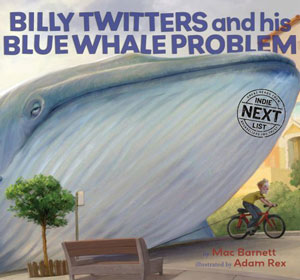
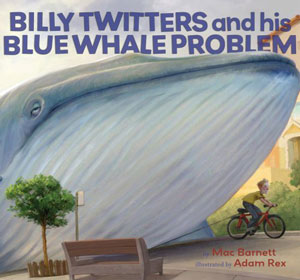
Add indie next watermark in correct positions

Changed region(s): [[0.78, 0.3143, 0.96, 0.5143]]

diff --git a/v2/books_inner.html b/v2/books_inner.html
@@ -44,6 +44,7 @@
     <div class='book'>
       <div class='image'>
         <a href='billy_twitters.html' target='_top'><img src="imagesv2/billy_twitters.jpg" width="182" height="170" alt="Billy Twitters"></a>
+        <img src="imagesv2/indieNextList.png" width="50" height="48" alt="IndieNextList" style='position:relative; top:-30px; left:-120px' />
       </div>
       <div class='content'>
         <div class='title'>
@@ -67,6 +68,7 @@
     <div class='book'>
       <div class='image'>
         <a href='guess_again.html' target="_top"><img src="imagesv2/guess_again.jpg" width="182" height="204" alt="Guess Again" /></a>
+        <img src="imagesv2/indieNextList.png" width="50" height="48" alt="IndieNextList" style='position:relative; top:-30px; left:-120px' />
       </div>
       <div class='content'>
         <div class='title'>
@@ -76,6 +78,8 @@
           <p>Illustrated by Adam Rex</p>
 
           <p>Here is a book that will keep you guessing again and again and&#8230;</p>
+
+          <p>Number Two on <a href='http://www.time.com/time/specials/packages/article/0,28804,1945379_1943845_1943849,00.html'>TIME Magazine's Ten Best Children's Books of 2009</a></p>
 
           <p>A Junior Library Guild Selection</p>
 

diff --git a/v2/guess_again.html b/v2/guess_again.html
@@ -20,7 +20,10 @@
     <img src="imagesv2/toolbar.jpg" width="792" height="36" alt="Toolbar" usemap="#Map">
   </div>
   <div id='content'>
-    <img src="imagesv2/guess_again_large.jpg" width="300" height="336" alt="Guess Again Large" class='sideimg' />
+    <div class='sideimg'>
+      <img src="imagesv2/guess_again_large.jpg" width="300" height="336" alt="Guess Again Large" />
+      <img src="imagesv2/indieNextList.png" width="75" height="72" alt="IndieNextList" style='position:relative; top:-30px; left:-100px' />
+    </div>
     
     <div class='inner_content'>
       <div class='title'>
@@ -32,6 +35,8 @@
         <p>Illustrated by Adam Rex</p>
 
         <p>Here is a book that will keep you guessing again and again and&#8230;</p>
+
+        <p>Number Two on <a href='http://www.time.com/time/specials/packages/article/0,28804,1945379_1943845_1943849,00.html'>TIME Magazine's Ten Best Children's Books of 2009</a></p>
 
         <p>A Junior Library Guild Selection</p>
 

diff --git a/v2/billy_twitters.html b/v2/billy_twitters.html
@@ -20,7 +20,10 @@
     <img src="imagesv2/toolbar.jpg" width="792" height="36" alt="Toolbar" usemap="#Map">
   </div>
   <div id='content'>
-    <img src="imagesv2/billy_twitters_large.jpg" width="300" height="280" alt="Billy Twitters Large" class='sideimg'>
+    <div class='sideimg'>
+      <img src="imagesv2/billy_twitters_large.jpg" width="300" height="280" alt="Billy Twitters Large" />
+      <img src="imagesv2/indieNextList.png" width="75" height="72" alt="IndieNextList" style='position:relative; top:-30px; left:-100px' />
+    </div>
     
     <div class='inner_content'>
       <div class='title'>
